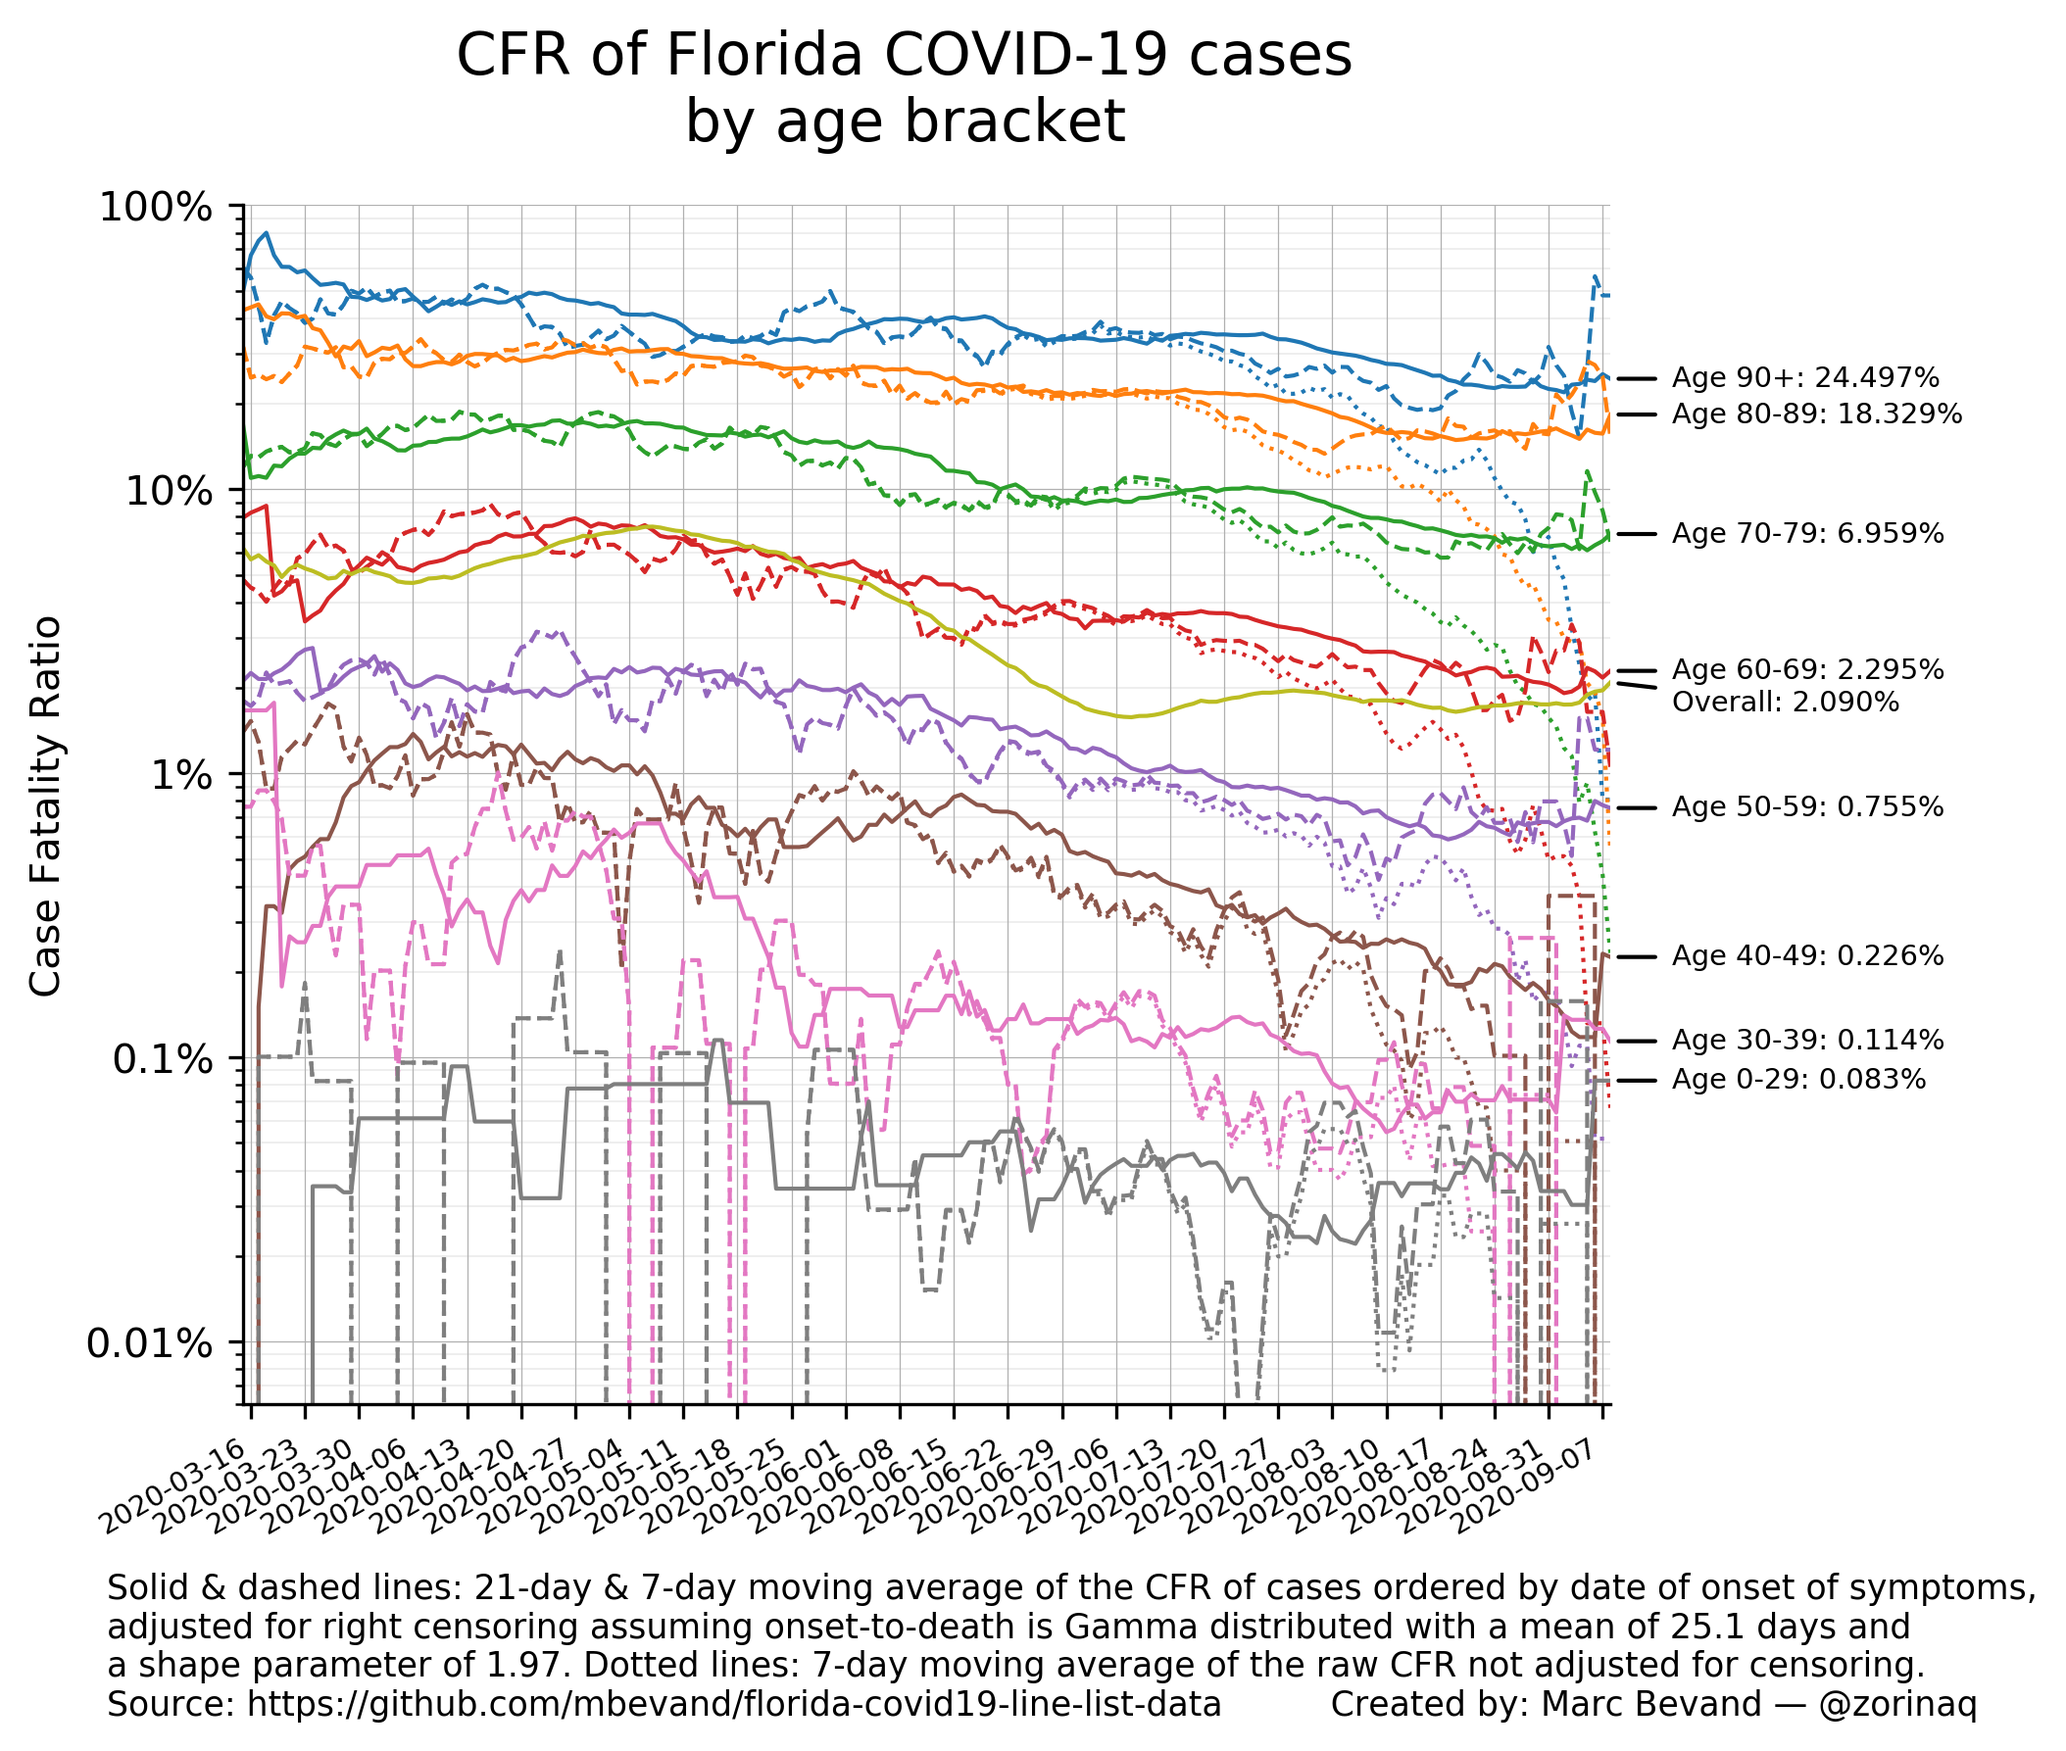
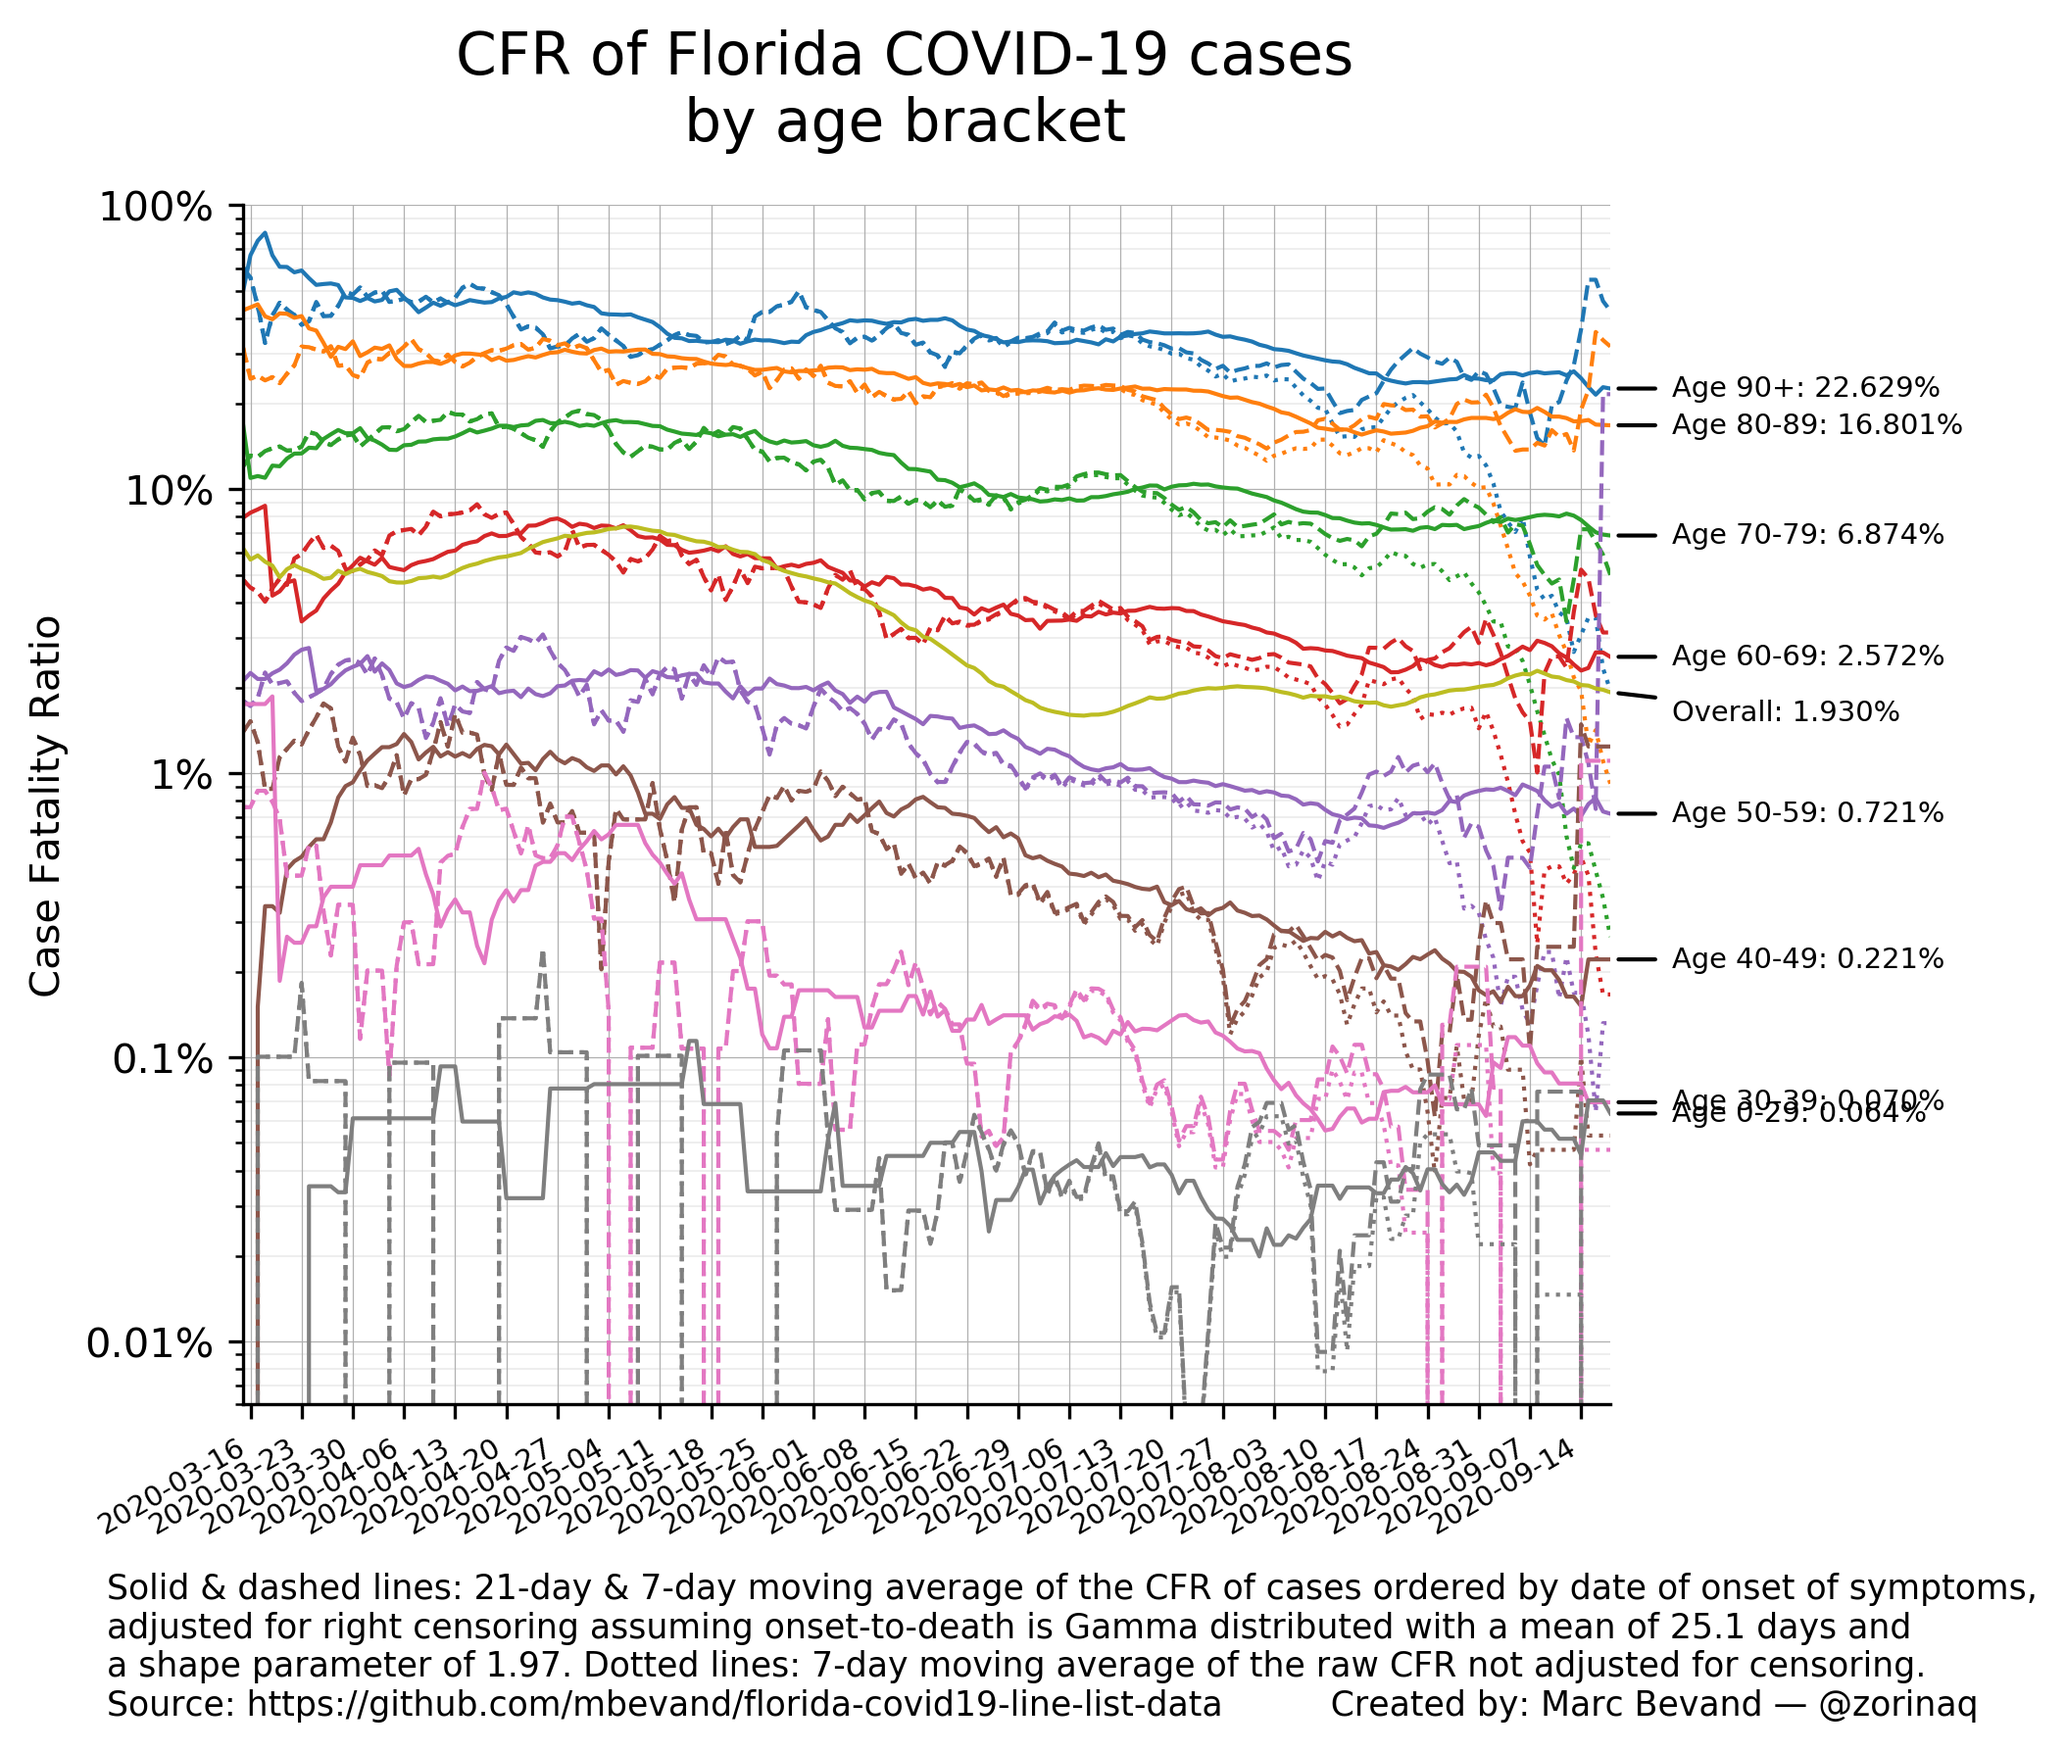
update age-stratified CFRs

Changed region(s): [[0.0617, 0.1231, 0.9559, 0.8926], [0.8942, 0.277, 0.925, 0.3078], [0.8634, 0.4617, 0.8942, 0.4924]]

diff --git a/forecast_deaths.py b/forecast_deaths.py
@@ -108,15 +108,15 @@ cfr_models = [
         CFRModel(
             '5',
             'Our CFR calculated on the Florida line list (age_stratified_cfr.py)',
-            2.090 / 100, {
-                (0, 29):  0.083 / 100,
-                (30, 39): 0.114 / 100,
-                (40, 49): 0.226 / 100,
-                (50, 59): 0.755 / 100,
-                (60, 69): 2.295 / 100,
-                (70, 79): 6.959 / 100,
-                (80, 89): 18.329 / 100,
-                (90, 199): 24.497 / 100,
+            1.930 / 100, {
+                (0, 29):  0.064 / 100,
+                (30, 39): 0.070 / 100,
+                (40, 49): 0.221 / 100,
+                (50, 59): 0.721 / 100,
+                (60, 69): 2.572 / 100,
+                (70, 79): 6.874 / 100,
+                (80, 89): 16.801 / 100,
+                (90, 199): 22.629 / 100,
                 }
             ),
         ]
